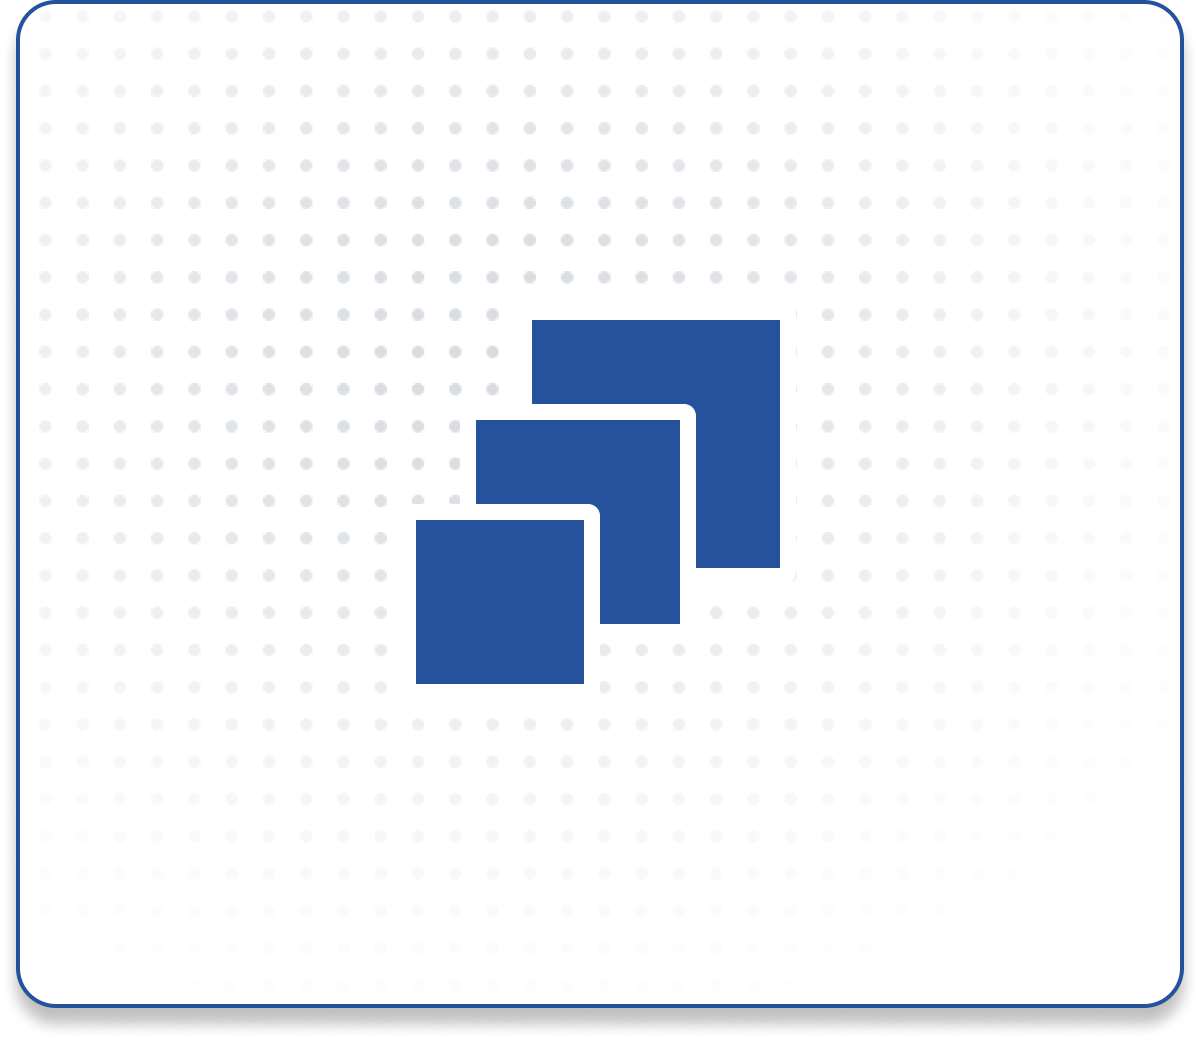
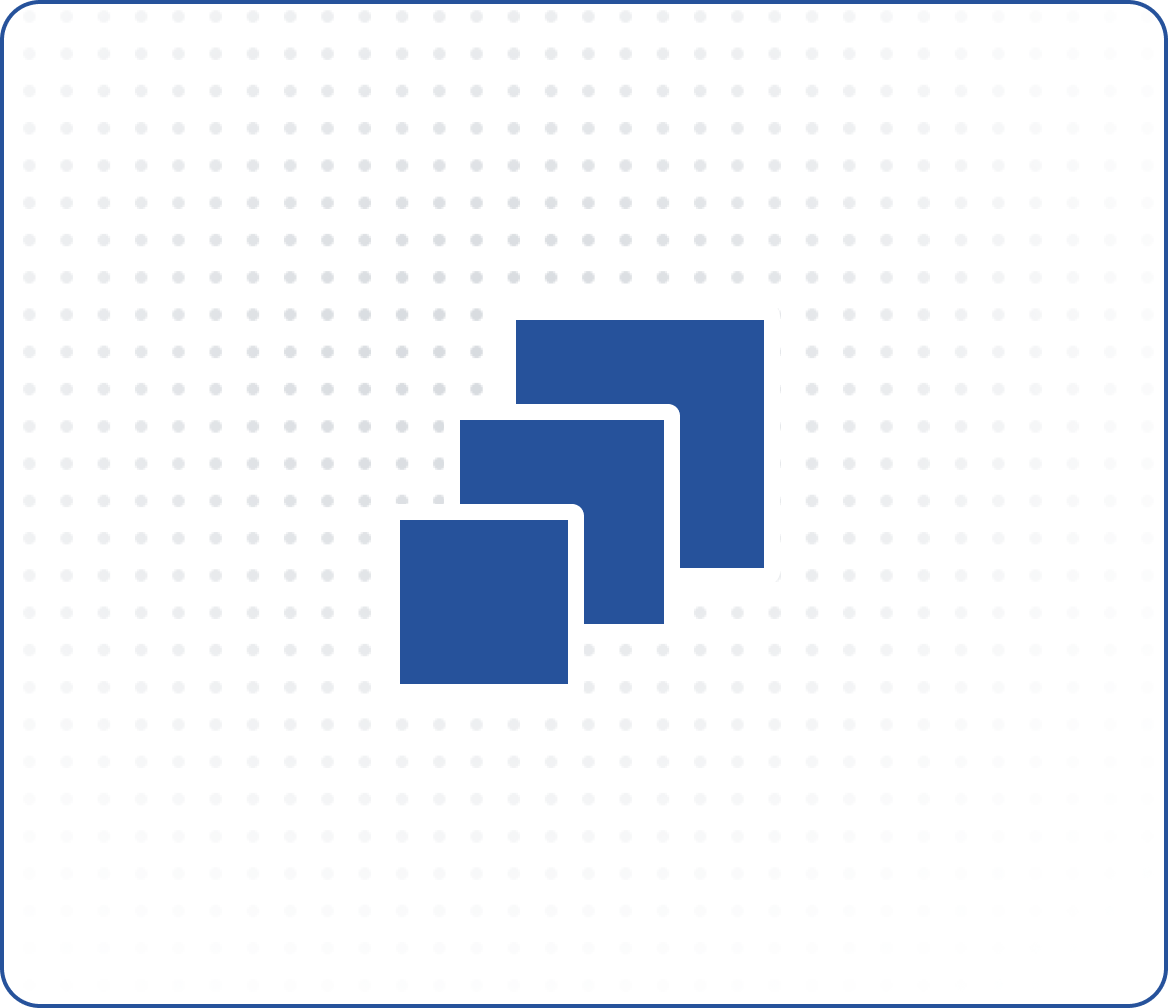
joint sumulation cards

Changed region(s): [[0.1233, 0.1538, 0.7089, 0.6766], [0.0, 0.0, 1.0, 1.0]]

diff --git a/style.css b/style.css
@@ -2,7 +2,7 @@
 Theme Name: Trust Habbit Custom Theme
 Description: Custom theme for Trust Habbits
 Author: Antigravity
-Version: 3.0.4
+Version: 3.0.5
 */
 
 @font-face {
@@ -2268,9 +2268,11 @@ ul {
   overflow-x: auto;
   scroll-snap-type: x mandatory;
   align-items: center;
+  justify-content: space-between;
   padding-bottom: 1.5rem;
   scrollbar-width: none;
   -ms-overflow-style: none;
+  width: 100%;
 }
 
 .sim-flow-carousel::-webkit-scrollbar {
@@ -2278,34 +2280,39 @@ ul {
 }
 
 .sim-step-card-wrapper {
-  flex: 1 0 auto;
+  flex: 1 1 0;
   display: flex;
   flex-direction: column;
   align-items: center;
-  gap: 1rem;
   scroll-snap-align: center;
 }
 
 .sim-step-card {
-  width: clamp(200px, 20vw, 260px);
-  aspect-ratio: 1 / 1;
+  width: 100%;
+  display: flex;
+  justify-content: center;
 }
 
 .sim-step-card img {
   width: 100%;
-  height: 100%;
+  height: auto;
   object-fit: contain;
+  display: block;
 }
 
 .sim-step-title {
   font-size: 0.95rem;
   font-weight: 500;
+  margin-top: 1rem;
 }
 
 .sim-flow-arrow {
   flex: 0 0 auto;
   color: #94a3b8;
-  padding-bottom: 2rem;
+  padding-bottom: 2.2rem; /* Aligns with the center of the cards above the title */
+  display: flex;
+  align-items: center;
+  justify-content: center;
 }
 
 .sim-points-grid {

diff --git a/why-trust-habit.php b/why-trust-habit.php
@@ -543,7 +543,7 @@ get_header();
 
                     <!-- Arrow -->
                     <div class="sim-flow-arrow">
-                        <img src="<?php echo get_template_directory_uri(); ?>/assets/svg/arrow.svg" alt="Arrow" style="width: 32px; height: 32px; object-fit: contain;">
+                        <img src="<?php echo get_template_directory_uri(); ?>/assets/svg/arrow.svg" alt="Arrow" style="height: 32px; object-fit: contain;">
                     </div>
 
                     <!-- Step 2 -->
@@ -556,7 +556,7 @@ get_header();
 
                     <!-- Arrow -->
                     <div class="sim-flow-arrow">
-                        <img src="<?php echo get_template_directory_uri(); ?>/assets/svg/arrow.svg" alt="Arrow" style="width: 32px; height: 32px; object-fit: contain;">
+                        <img src="<?php echo get_template_directory_uri(); ?>/assets/svg/arrow.svg" alt="Arrow" style="height: 32px; object-fit: contain;">
                     </div>
 
                     <!-- Step 3 -->
@@ -569,7 +569,7 @@ get_header();
 
                     <!-- Arrow -->
                     <div class="sim-flow-arrow">
-                        <img src="<?php echo get_template_directory_uri(); ?>/assets/svg/arrow.svg" alt="Arrow" style="width: 32px; height: 32px; object-fit: contain;">
+                        <img src="<?php echo get_template_directory_uri(); ?>/assets/svg/arrow.svg" alt="Arrow" style="height: 32px; object-fit: contain;">
                     </div>
 
                     <!-- Step 4 -->